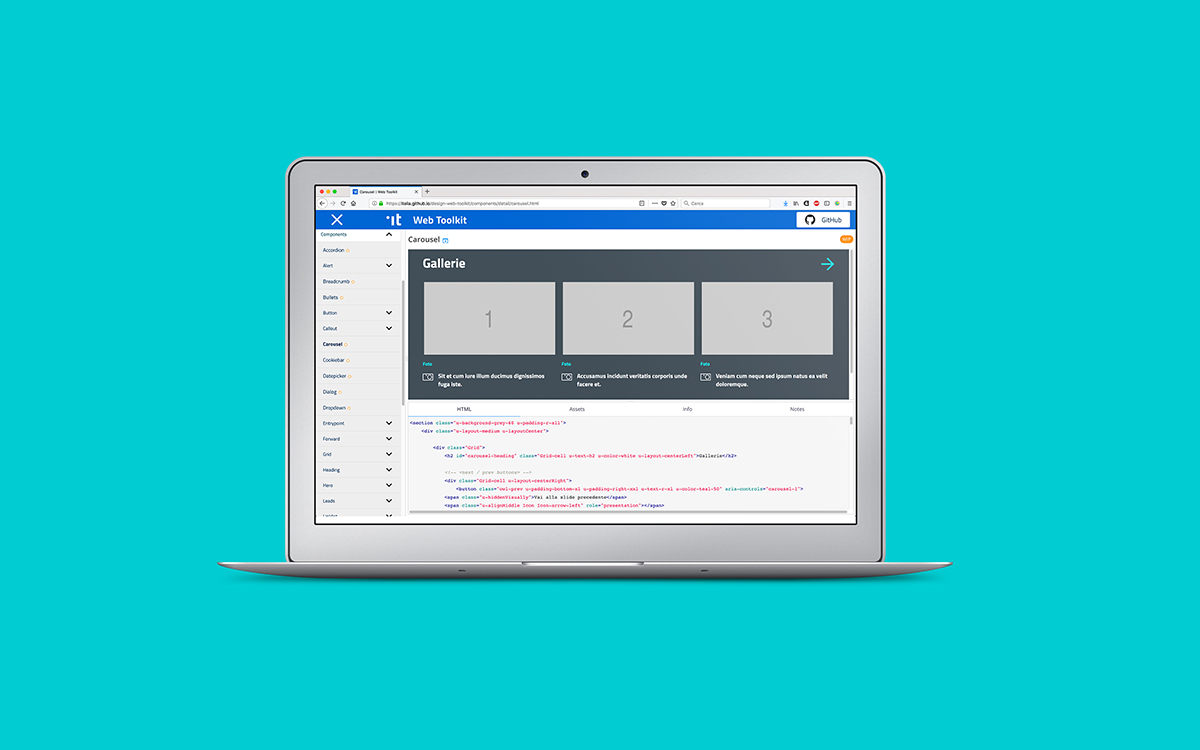
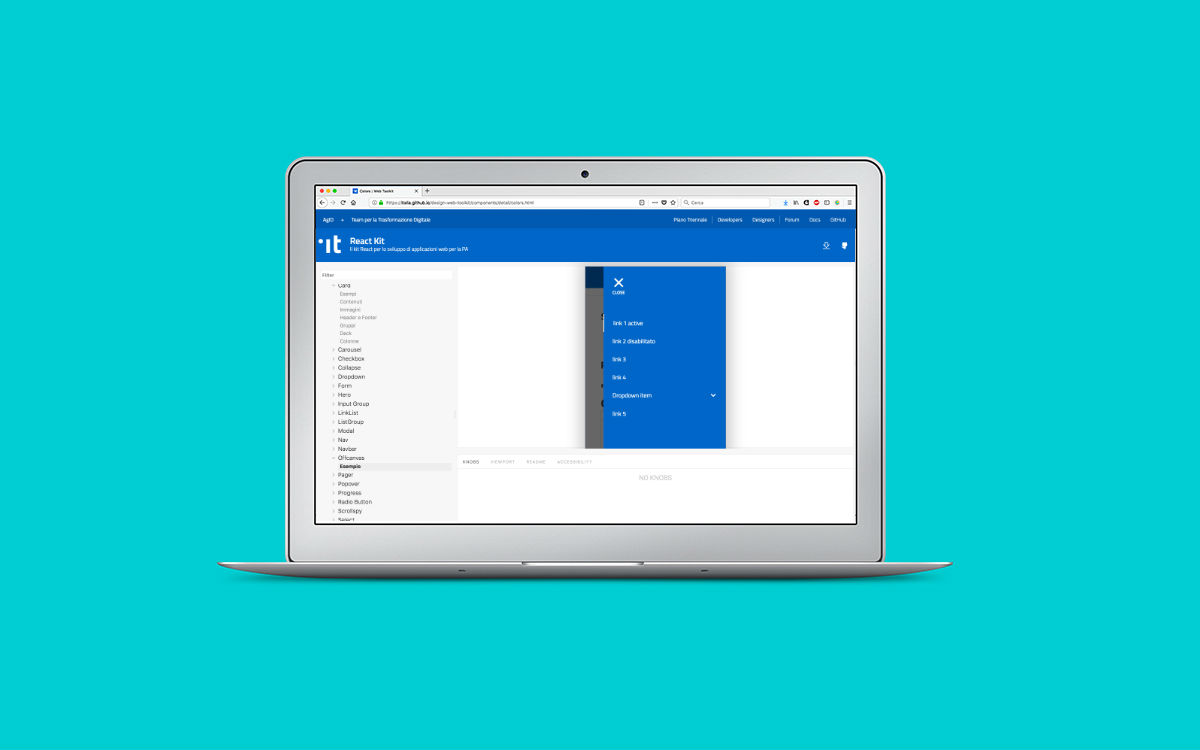
Aggiunti link ai web toolkit, aggiornata roadmap, aggiornata pagina "come partecipo".

Changed region(s): [[0.2467, 0.2453, 0.74, 0.7053]]

diff --git a/_pages/it/come-partecipo.md b/_pages/it/come-partecipo.md
@@ -4,7 +4,7 @@ lang: it
 layout: megablocks
 blocks:
 - title: Partecipa alla vita del forum
-  subtitle: Sul forum di Designers Italia puoi fare proposte, avanzare <a href="https://forum.italia.it/c/design/feedback-community">idee e suggerimenti</a>, segnalare best practice o <a href="https://forum.italia.it/c/design/esempi-linee-guida">esempi di applicazione</a> delle linee guida, discutere i temi legati al <b>service design</b>, al <b>content design</b>, alla <b>user interface</b> e alla <b>user research</b>. 
+  subtitle: Sul forum di Designers Italia puoi fare proposte, avanzare <a href="https://forum.italia.it/c/design/feedback-community">idee e suggerimenti</a>, segnalare best practice o <a href="https://forum.italia.it/c/design/esempi-linee-guida">esempi di applicazione</a> delle linee guida, discutere i temi legati al <b>service design</b>, al <b>content design</b>, alla <b>user interface</b> e alla <b>user research</b>.
   img: /assets/images/pages/persone.jpg
   button:
     - label: Vai al forum
@@ -16,15 +16,23 @@ blocks:
     - label: Mandaci la tua proposta!
       url: 'mailto:contatti@designers.italia.it'
 - title: Alimenta il design system
-  subtitle: 'Il design system di Designers Italia si compone di alcuni elementi (alcuni ancora in via di definizione): wireframe kit, UI kit e web toolkit.<br>Grazie a dei <i>repository</i> pubblici su GitHub è possibile proporre modifiche o proporre nuovi elementi allo UI kit, all’icon kit, al web toolkit, attraverso delle <a href="https://help.github.com/articles/about-pull-requests/"><i>pull request</i></a> o delle <a href="https://guides.github.com/features/issues/"><i>issues</i></a> con dei file allegati.' 
+  subtitle: 'Il design system di Designers Italia si compone di alcuni elementi: wireframe kit, UI kit e web toolkit.<br>Grazie a dei <i>repository</i> pubblici su GitHub è possibile proporre modifiche o proporre nuovi elementi al Wireframe Kit, allo UI kit, all’icon kit, e ai web toolkit, attraverso delle <a href="https://help.github.com/articles/about-pull-requests/"><i>pull request</i></a> o delle <a href="https://guides.github.com/features/issues/"><i>issues</i></a> con dei file allegati.'
   img: /assets/images/pages/alimenta-il-design-system.jpg
   button:
-    - label: Partecipa allo UI Kit
-      url: 'https://github.com/italia/design-ui-kit'
+    - label: Partecipa al Wireframe Kit
+      url: 'https://github.com/italia/design-wireframe-kit'
     - label: Partecipa all’Icon kit
       url: 'https://github.com/italia/design-icon-kit'
-    - label: Partecipa al Web toolkit
+    - label: Partecipa allo UI Kit
+      url: 'https://github.com/italia/design-ui-kit'
+    - label: Partecipa al Web Toolkit
       url: 'https://github.com/italia/design-web-toolkit'
+    - label: Partecipa a Bootstrap Italia
+      url: 'https://github.com/italia/bootstrap-italia'
+    - label: Partecipa a React Kit
+      url: 'https://github.com/italia/design-react-toolkit'
+    - label: Partecipa ad Angular Kit
+      url: 'https://github.com/italia/design-angular-toolkit'
 - title: Prendi parte alla scrittura delle linee guida
   subtitle: 'Le linee guida sono un documento pubblico e chiunque può partecipare al processo di revisione e aggiornamento <b>proponendo modifiche</b> e nuovi contenuti.<br>Grazie ad <a href="https://github.com/italia/design-docs">un <i>repository</i> pubblico su GitHub</a> è possibile seguirne lo sviluppo, proporre correzioni o <b>partecipare alla stesura</b> di nuove versioni (seguendo le regole di questa <a href="https://design-italia.readthedocs.io/it/stable/doc/introduzione-linee-guida-design.html#stile-della-documentazione"><i>Style guide</i></a>). Per farlo, si devono usare gli strumenti collaborativi di GitHub, in particolare le <a href="https://guides.github.com/features/issues/"><i>issues</i></a> (per le discussioni) e le <a href="https://help.github.com/articles/about-pull-requests/"><i>pull request</i></a> (per le proposte di modifica).'
   img: /assets/images/pages/neonbrand-226736.jpg
@@ -45,4 +53,4 @@ blocks:
 Designers Italia è un progetto aperto basato sulla partecipazione e il contributo di designer e professionisti interni ed esterni alla Pubblica Amministrazione
 
 
-Puoi prendere parte alla vita e all’evoluzione di Designers Italia in diversi modi, dalla semplice condivisione di idee e best practice, allo sviluppo delle linee guida, alla diffusione delle soluzioni proposte. 
+Puoi prendere parte alla vita e all’evoluzione di Designers Italia in diversi modi, dalla semplice condivisione di idee e best practice, allo sviluppo delle linee guida, alla diffusione delle soluzioni proposte.

diff --git a/_kits/it/web-toolkit.md b/_kits/it/web-toolkit.md
@@ -7,7 +7,7 @@ backgroundImage : '/assets/images/kits/12_Web Kit.png'
 backgroundColor: '#439af1'
 nodate: true
 kitcategory: fare
-tags: 
+tags:
 - web-toolkit
 - usability
 - webmastertool
@@ -19,29 +19,39 @@ guidelines:
 download_file :
 - file : 'https://italia.github.io/design-web-toolkit/'
   caption : 'Web Toolkit'
-  type : 'internal'
+  type : 'external'
+- file : 'https://italia.github.io/bootstrap-italia/'
+  caption : 'Bootstrap Italia'
+  type : 'external'
+- file : 'https://italia.github.io/design-angular-toolkit/'
+  caption : 'Angular Kit'
+  type : 'external'
+- file : 'https://italia.github.io/design-react-toolkit/'
+  caption : 'React Kit'
+  type : 'external'
 
 carousel:
 - img: '/assets/images/kits/01_WebToolkit_slide.jpg'
-  label:
+  label: 'Web Toolkit'
 - img: '/assets/images/kits/02_WebToolkit_slide.jpg'
-  label:
+  label: 'Bootstrap Italia'
 - img: '/assets/images/kits/03_WebToolkit_slide.jpg'
-  label:
+  label: 'React Kit'
+- img: '/assets/images/kits/04_WebToolkit_slide.jpg'
+  label: 'Angular Kit'
 ---
 
 {:.u-color-50}
 ###### CHE COS’È
 
 {:.u-color-50 .u-margin-bottom-xxl}
-#### Il kit dedicato allo sviluppo di siti e applicazioni web è un insieme di **strumenti e codice sorgente** già pronti e validati per la creazione di interfacce mobile-first usabili, accessibili e consistenti, conformi alle Linee Guida di design per i servizi web della Pubblica Amministrazione.
+#### Il toolkit dedicato allo sviluppo di siti e applicazioni web è un insieme di **strumenti e codice sorgente** già pronti e validati per la creazione di interfacce mobile-first usabili, accessibili e consistenti, conformi alle Linee Guida di design per i servizi web della Pubblica Amministrazione.
 
-{% include simplecarousel.html  %} 
+{% include simplecarousel.html  %}
 
 {:.u-color-50 .u-margin-top-xxl}
 ###### COME SI UTILIZZA
-Il Web Toolkit fornisce **componenti open-source** pronti per l’uso. L'utilizzo del kit prevede competenze di base di sviluppo web ed è corredato da una documentazione tecnica completa e dettagliata per l’utilizzo e la personalizzazione dei componenti. Sono presenti all’interno del Toolkit anche **pagine HTML** di esempio che possono essere utilizzate come punto di partenza per lo sviluppo della propria applicazione web.  
-
+Il Web Toolkit fornisce **componenti open-source** pronti per l’uso. L'utilizzo di ogni kit prevede competenze di base di sviluppo web ed è corredato da una documentazione tecnica completa e dettagliata per l’utilizzo e la personalizzazione dei componenti. Sono presenti all’interno dei kit anche **pagine HTML** di esempio che possono essere utilizzate come punto di partenza per lo sviluppo della propria applicazione web.
 
 
 {:.u-color-50 .u-margin-top-xxl}
@@ -51,4 +61,7 @@ Il Web Toolkit **indica e assicura** una realizzazione conforme alle linee guida
 
 {:.u-color-50 .u-margin-top-xxl}
 ###### COSA CONTIENE QUESTO KIT
-Questo kit si compone di codice **HTML, CSS e Javascript** progettati per una più semplice creazione di siti e applicazioni web e interfacce basata sui princìpi di **composizione** e del **riuso** di componenti condivisi.
+All'interno dei Web Toolkit trovi diversi strumenti per lo sviluppo di interfacce web: ognuni di questi si compone di codice **HTML, CSS e Javascript** progettati per una più semplice creazione di siti e applicazioni web e interfacce basata sui princìpi di **composizione** e del **riuso** di componenti condivisi.
+- **Web Toolkit** è la libreria "storica" tra i Web Toolkit, con il più alto numero di componenti già pronti all'uso.
+- **Bootstrap Italia** (in lavorazione) è il successore del Web Toolkit, costruito sulla libreria Bootstrap 4 e basato sulle nuove direttive presenti nello UI Kit 2.0.
+- **React Kit** e **Angular Kit** (in lavorazione) mettono a disposizione componenti costruiti rispettivamente sulle basi di React e AngularJS.
